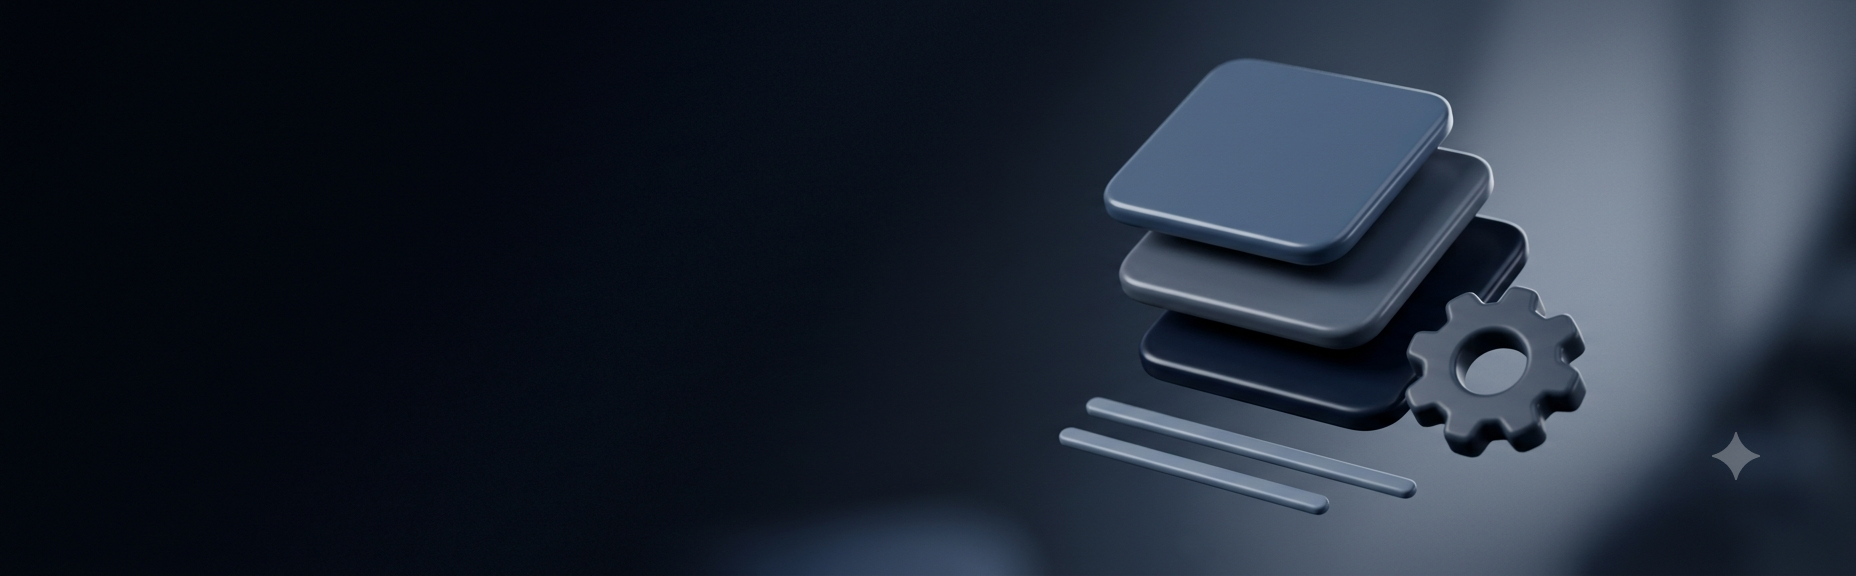
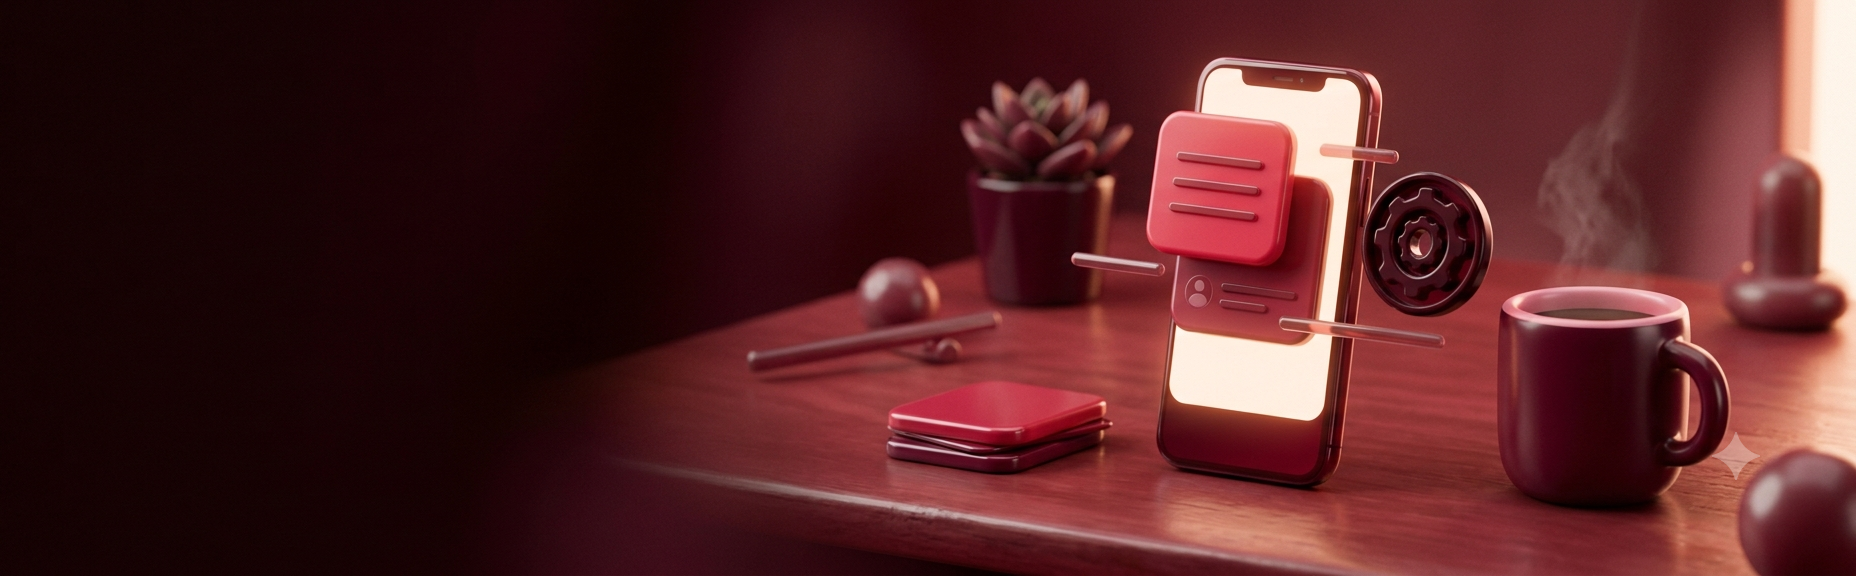
updated some files.

diff --git a/components/ui/Header.tsx b/components/ui/Header.tsx
@@ -859,7 +859,7 @@ export function Header() {
 
             {/* ── GRADIENT HEADER — matches notification bell style ── */}
             <div style={{
-              background:"linear-gradient(135deg, #0f172a 0%, #334155 45%, #475569 100%)",
+              background:"linear-gradient(135deg, #4c0519 0%, #881337 45%, #be123c 100%)",
               overflow:"hidden",
               padding:"14px 20px 16px", flexShrink:0,
               position:"relative",
@@ -931,10 +931,10 @@ export function Header() {
             {/* Nav links */}
             <nav style={{ overflowY:"auto", flex:1, padding:"8px 0" }}>
               {drawerLinks.map(({ href, label, icon, action }) => {
-                const linkStyle = { display:"flex", alignItems:"center", gap:14, padding:"14px 20px", textDecoration:"none", fontSize:14, fontWeight:500, color:pathname===href?"#334155":"#374151", background:pathname===href?"rgba(71,85,105,0.09)":"transparent", borderLeft:`3px solid ${pathname===href?"#475569":"transparent"}` } as const;
+                const linkStyle = { display:"flex", alignItems:"center", gap:14, padding:"14px 20px", textDecoration:"none", fontSize:14, fontWeight:500, color:pathname===href?"#be123c":"#374151", background:pathname===href?"rgba(190,18,60,0.08)":"transparent", borderLeft:`3px solid ${pathname===href?"#be123c":"transparent"}` } as const;
                 const inner = (
                   <>
-                    <span style={{ color:pathname===href?"#475569":"#6b7280" }}>{icon}</span>
+                    <span style={{ color:pathname===href?"#be123c":"#6b7280" }}>{icon}</span>
                     {label}
                   </>
                 );
@@ -966,7 +966,7 @@ export function Header() {
                 </button>
               ) : (
                 <Link href="/login" onClick={() => setDrawerOpen(false)}
-                  style={{ display:"flex", alignItems:"center", justifyContent:"center", padding:"12px", borderRadius:100, background:"linear-gradient(135deg,#334155,#475569)", color:"white", fontWeight:700, textDecoration:"none", fontSize:14, gap:8 }}>
+                  style={{ display:"flex", alignItems:"center", justifyContent:"center", padding:"12px", borderRadius:100, background:"linear-gradient(135deg,#9f1239,#be123c)", color:"white", fontWeight:700, textDecoration:"none", fontSize:14, gap:8 }}>
                   <svg width="16" height="16" viewBox="0 0 24 24" fill="none" stroke="currentColor" strokeWidth={2} strokeLinecap="round"><path d="M15 3h4a2 2 0 0 1 2 2v14a2 2 0 0 1-2 2h-4"/><polyline points="10 17 15 12 10 7"/><line x1="15" y1="12" x2="3" y2="12"/></svg>
                   Sign in / Login
                 </Link>
